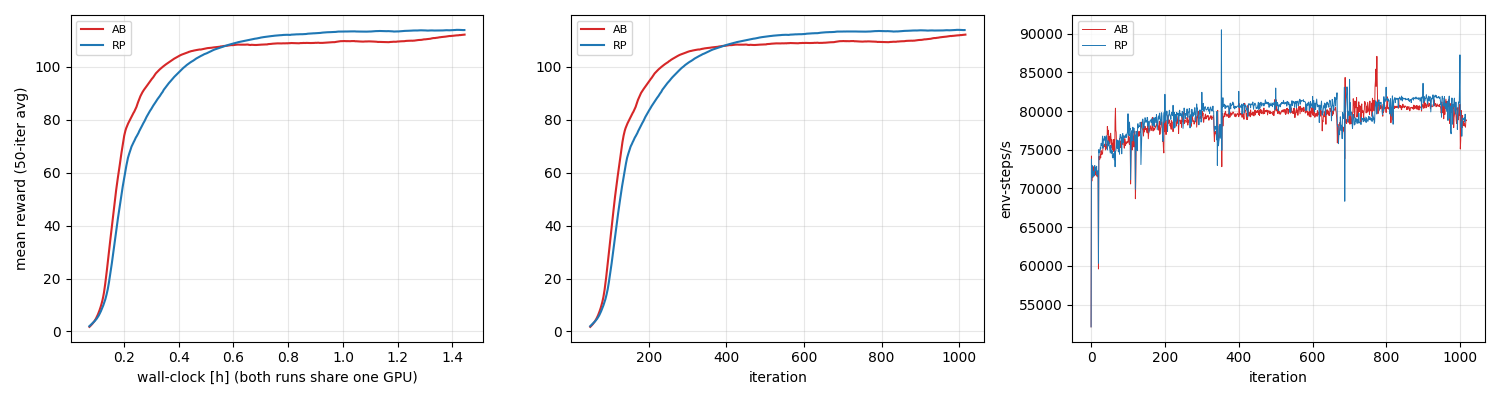
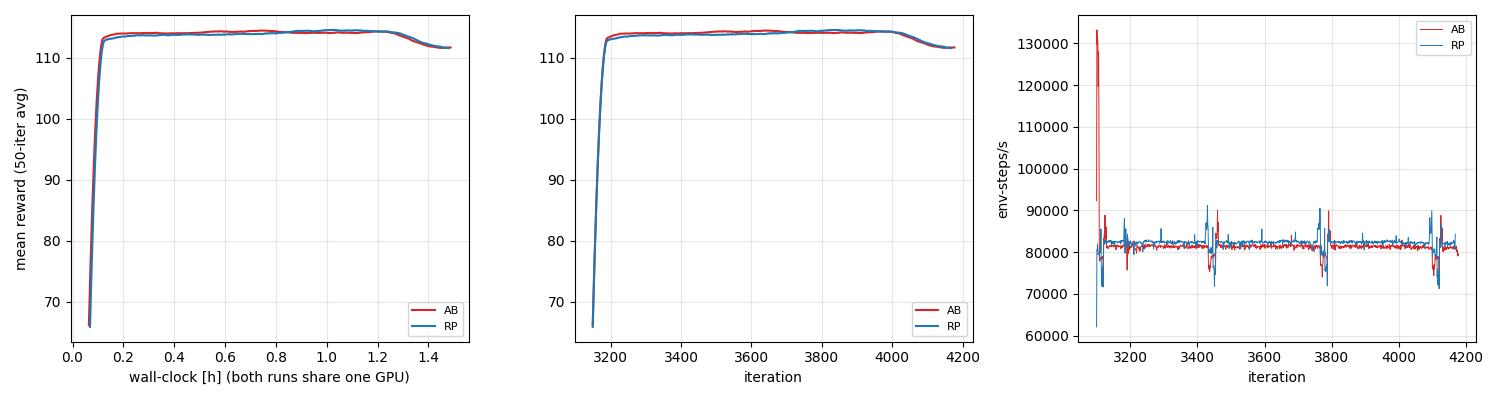
c3 gate 4000: snapshot rows (vx1.2 dip 114->112, fell 0), ab_rp stage1 refresh (4.8s/iter both, thermal AB 4.24 vs RP 3.57)

diff --git a/docs/mujoco/assets/abrp_stage1.md b/docs/mujoco/assets/abrp_stage1.md
@@ -1,19 +1,19 @@
 | metric | AB closed-loop | RP serial+envelope |
 |---|---|---|
-| iterations so far | 1016 | 1014 |
-| wall-clock so far [h] | 1.4 | 1.4 |
-| s / iteration (collection+learning, last 200) | 4.90 | 4.85 |
-| env-steps/s (Perf/total_fps, last 200) | 80259 | 81096 |
-| reward plateau (50-avg max) | 112.2 | 114.0 |
-| iter to 50 % of plateau | 118 | 134 |
-| iter to 80 % of plateau | 179 | 235 |
-| iter to 90 % of plateau | 241 | 313 |
-| iter to 95 % of plateau | 332 | 401 |
+| iterations so far | 4177 | 4168 |
+| wall-clock so far [h] | 1.5 | 1.5 |
+| s / iteration (collection+learning, last 200) | 4.86 | 4.80 |
+| env-steps/s (Perf/total_fps, last 200) | 80879 | 81969 |
+| reward plateau (50-avg max) | 114.4 | 114.5 |
+| iter to 50 % of plateau | 3149 | 3149 |
+| iter to 80 % of plateau | 3163 | 3163 |
+| iter to 90 % of plateau | 3172 | 3172 |
+| iter to 95 % of plateau | 3179 | 3179 |
 | fell_over (last 200) | 0.000 | 0.000 |
-| error_vel_xy (last 200) | 0.539 | 0.532 |
-| error_vel_yaw | 0.485 | 0.453 |
-| action accel | 0.667 | 0.625 |
-| thermal effort | 4.000 | 3.652 |
-| landing force [N] | 274.724 | 283.366 |
-| noise std | 0.338 | 0.313 |
+| error_vel_xy (last 200) | 0.581 | 0.569 |
+| error_vel_yaw | 0.459 | 0.453 |
+| action accel | 0.627 | 0.622 |
+| thermal effort | 4.243 | 3.570 |
+| landing force [N] | 261.400 | 260.482 |
+| noise std | 0.318 | 0.311 |
 | GPU memory per process [MiB] (max) | 7045 | 6457 |

diff --git a/docs/experiments/2026-08-23_ankleAB_c2.md b/docs/experiments/2026-08-23_ankleAB_c2.md
@@ -37,3 +37,7 @@
 
 - 2026-08-23 23:40 iter 1200 발목 사용/떨림 분석 → [[93_ankle_ab_rp_comparison_plan]] §5b (AB: 정지 잔떨림·스웨이, 보행 발목 17° 사용 / RP: bang-bang 목표·PD 포화 토크 스파이크). GRF는 접촉-only `GRFc_*`로.
 | 08-24 00:21 | 1950 | 114.2 (50avg 114.0) | 1000 | 0.326 | 0.0307 | 2.52 | -0.0025 / 3.0e-04 | 0.000 / 0.000 | 0.519 / 0.463 | 0.00 / 0.8 | 4.05 | (자동 스냅샷, 판정은 게이트 리뷰에서) |
+| 08-24 01:22 | 2659 | 114.1 (50avg 114.4) | 1000 | 0.329 | 0.0323 | 2.59 | -0.0040 / 4.4e-04 | 0.000 / 0.000 | 0.509 / 0.465 | 0.00 / 0.8 | 4.02 | (자동 스냅샷, 판정은 게이트 리뷰에서) |
+| 08-24 02:22 | 3409 | 113.0 (50avg 113.9) | 993 | 0.333 | 0.0301 | 2.78 | -0.0042 / 6.7e-04 | 0.000 / 0.042 | 0.506 / 0.473 | 0.00 / 0.8 | 4.08 | (자동 스냅샷, 판정은 게이트 리뷰에서) |
+| 08-24 02:59 | 4032 | 111.9 (50avg 113.8) | 996 | 0.350 | 0.0439 | 3.38 | -0.0040 / 6.7e-04 | 0.000 / 0.083 | 0.549 / 0.482 | 0.00 / 1.2 | 4.38 | 4000 게이트 (vx 1.2 단계 진입): 판정은 아래 행 참조 |
+| 08-24 03:22 | 4416 | 111.9 (50avg 111.8) | 1000 | 0.363 | 0.0395 | 3.88 | -0.0049 / 5.8e-04 | 0.000 / 0.000 | 0.591 / 0.524 | 0.00 / 1.2 | 4.49 | (자동 스냅샷, 판정은 게이트 리뷰에서) |

diff --git a/docs/experiments/2026-08-24_ankleAB_c3.md b/docs/experiments/2026-08-24_ankleAB_c3.md
@@ -15,3 +15,6 @@
 
 | 시각 | iter | reward | ep_len | noise σ | value loss | entropy | surrogate / LR | fell / low_base | err_vel xy / yaw | dr_factor / vx_max | thermal | 판정(docs/27) |
 |---|---|---|---|---|---|---|---|---|---|---|---|---|
+| 08-24 04:15 | 3739 | 114.9 (50avg 114.1) | 1000 | 0.296 | 0.0252 | 1.22 | -0.0041 / 6.7e-04 | 0.000 / 0.000 | 0.520 / 0.431 | 0.00 / 0.8 | 3.87 | c3 첫 게이트(warm-start 3100 + soft-landing, iter ~3700): reward 114 복귀(soft-landing 추가 직후 101→114, 딥 회복), fell 0, err_vel 0.50, impact_vel_mean 0.15 m/s(밴드 내 평균) → CONTINUE; 4000 게이트(vx 1.2)에서 impact_probe/hack_check |
+| 08-24 04:27 | 3878 | 113.9 (50avg 114.1) | 1000 | 0.297 | 0.0284 | 1.26 | -0.0030 / 4.4e-04 | 0.000 / 0.000 | 0.509 / 0.429 | 0.00 / 0.8 | 3.89 | (자동 스냅샷, 판정은 게이트 리뷰에서) |
+| 08-24 04:50 | 4162 | 111.3 (50avg 111.6) | 1000 | 0.324 | 0.03 | 2.32 | -0.0045 / 6.7e-04 | 0.000 / 0.000 | 0.595 / 0.475 | 0.00 / 1.2 | 4.25 | 4000 게이트 통과(vx 1.2 전환): reward 114.9→111.8 딥·err_vel 0.51→0.61, fell 0 유지 → 예상된 커리큘럼 딥, CONTINUE; model_4000에 impact_probe+hack_check 수행(§95 §7) |

diff --git a/docs/experiments/2026-08-24_ankleRP_c3.md b/docs/experiments/2026-08-24_ankleRP_c3.md
@@ -15,3 +15,6 @@
 
 | 시각 | iter | reward | ep_len | noise σ | value loss | entropy | surrogate / LR | fell / low_base | err_vel xy / yaw | dr_factor / vx_max | thermal | 판정(docs/27) |
 |---|---|---|---|---|---|---|---|---|---|---|---|---|
+| 08-24 04:15 | 3731 | 114.5 (50avg 114.3) | 1000 | 0.292 | 0.025 | 1.16 | -0.0043 / 6.7e-04 | 0.000 / 0.000 | 0.514 / 0.428 | 0.00 / 0.8 | 3.35 | c3 첫 게이트(warm-start 3100 + soft-landing, iter ~3700): reward 114 복귀(soft-landing 추가 직후 101→114, 딥 회복), fell 0, err_vel 0.50, impact_vel_mean 0.15 m/s(밴드 내 평균) → CONTINUE; 4000 게이트(vx 1.2)에서 impact_probe/hack_check |
+| 08-24 04:27 | 3870 | 114.5 (50avg 114.4) | 1000 | 0.293 | 0.0271 | 1.15 | -0.0031 / 4.4e-04 | 0.000 / 0.000 | 0.509 / 0.426 | 0.00 / 0.8 | 3.32 | (자동 스냅샷, 판정은 게이트 리뷰에서) |
+| 08-24 04:50 | 4154 | 110.7 (50avg 111.7) | 993 | 0.320 | 0.0341 | 2.30 | -0.0036 / 6.7e-04 | 0.000 / 0.083 | 0.588 / 0.474 | 0.00 / 1.2 | 3.57 | 4000 게이트 통과(vx 1.2 전환): reward 114.5→112.5 딥·err_vel 0.50→0.60, fell 0 유지 → 예상된 커리큘럼 딥, CONTINUE; model_4000에 impact_probe+hack_check 수행(§95 §7) |

diff --git a/docs/experiments/2026-08-23_ankleRP_c2.md b/docs/experiments/2026-08-23_ankleRP_c2.md
@@ -37,3 +37,6 @@
 
 - 2026-08-23 23:40 iter 1200 발목 사용/떨림 분석 → [[93_ankle_ab_rp_comparison_plan]] §5b (AB: 정지 잔떨림·스웨이, 보행 발목 17° 사용 / RP: bang-bang 목표·PD 포화 토크 스파이크). GRF는 접촉-only `GRFc_*`로.
 | 08-24 00:22 | 2162 | 113.6 (50avg 113.5) | 1000 | 0.324 | 0.0319 | 2.52 | -0.0030 / 6.7e-04 | 0.000 / 0.042 | 0.507 / 0.466 | 0.00 / 0.8 | 3.51 | (자동 스냅샷, 판정은 게이트 리뷰에서) |
+| 08-24 01:22 | 2866 | 113.0 (50avg 113.1) | 1000 | 0.331 | 0.0327 | 2.80 | -0.0034 / 6.7e-04 | 0.000 / 0.000 | 0.522 / 0.474 | 0.00 / 0.8 | 3.54 | (자동 스냅샷, 판정은 게이트 리뷰에서) |
+| 08-24 02:22 | 3433 | 113.5 (50avg 113.8) | 1000 | 0.331 | 0.036 | 2.76 | -0.0053 / 6.7e-04 | 0.000 / 0.000 | 0.509 / 0.472 | 0.00 / 0.8 | 3.56 | (자동 스냅샷, 판정은 게이트 리뷰에서) |
+| 08-24 03:22 | 3433 | 113.5 (50avg 113.8) | 1000 | 0.331 | 0.036 | 2.76 | -0.0053 / 6.7e-04 | 0.000 / 0.000 | 0.509 / 0.472 | 0.00 / 0.8 | 3.56 | (자동 스냅샷, 판정은 게이트 리뷰에서) |
